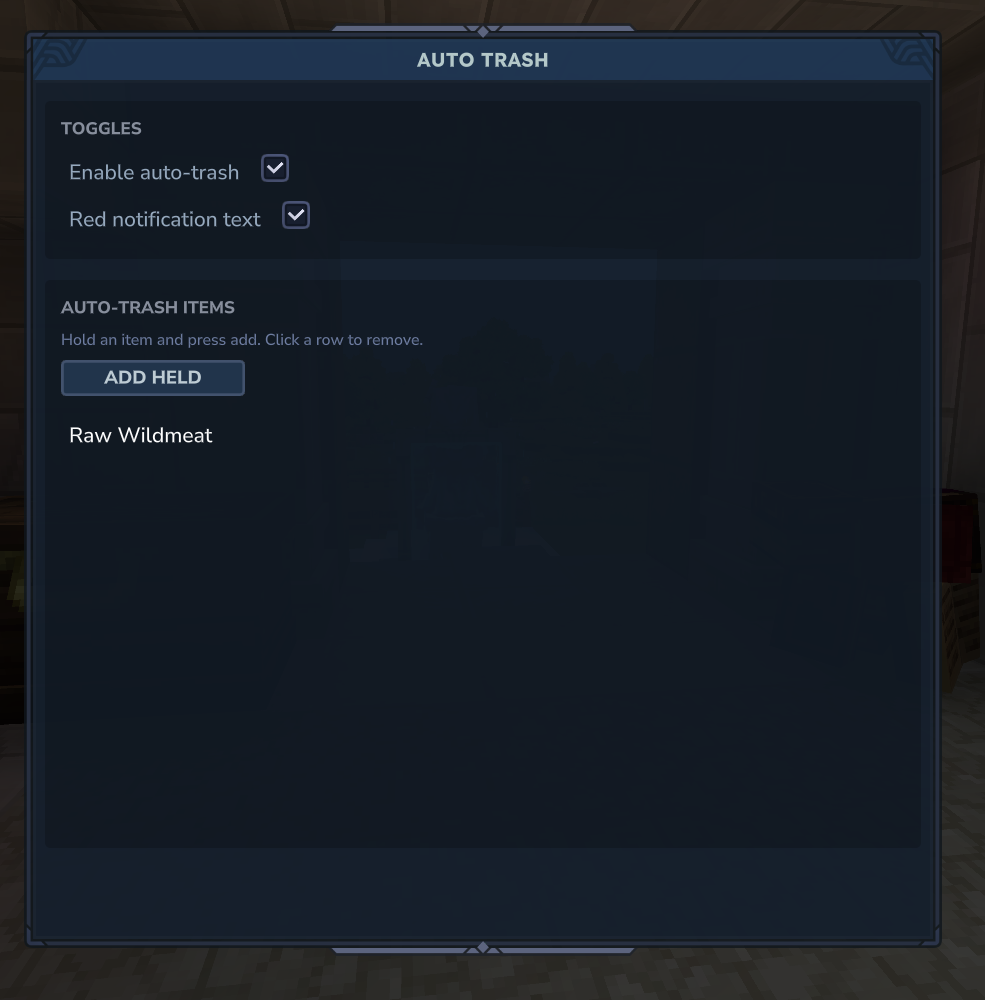
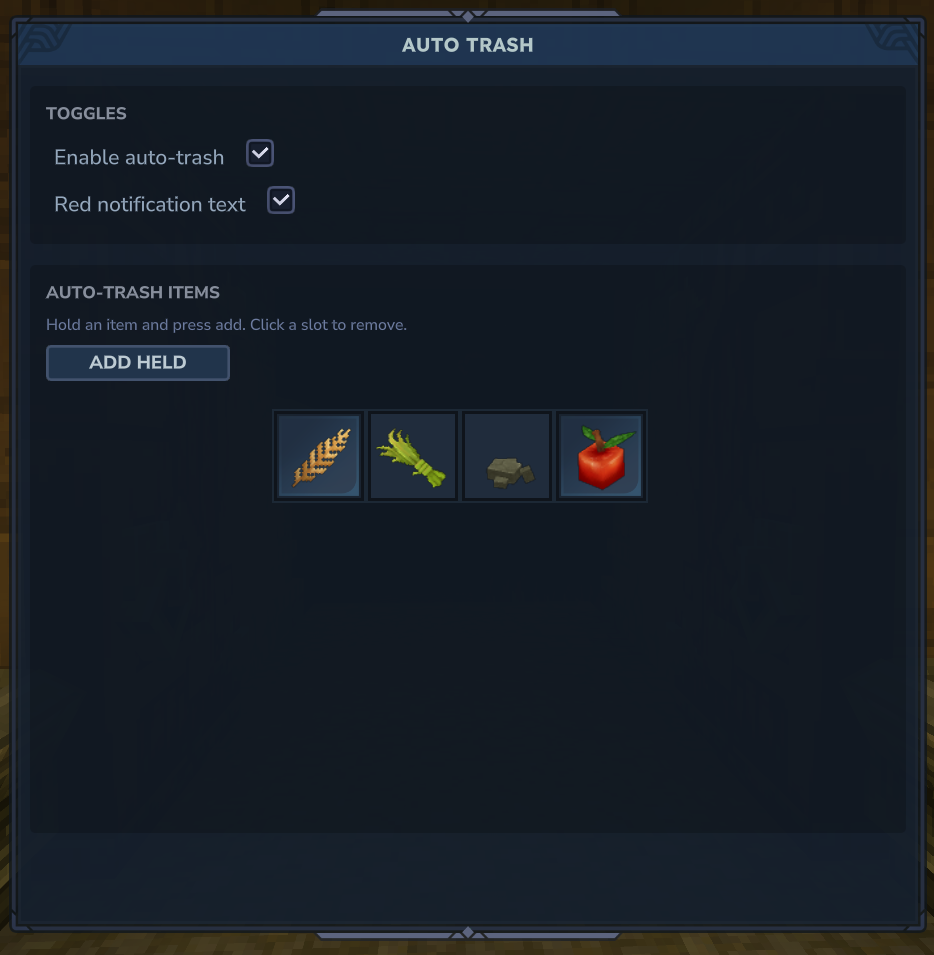
docs(changelog): update changelog for version 1.0.1

Changed region(s): [[0.0, 0.0, 1.0, 1.0], [0.2794, 0.4251, 0.7141, 0.5466]]

diff --git a/docs/CHANGELOG.md b/docs/CHANGELOG.md
@@ -1,5 +1,10 @@
 # Changelog
 
+## 1.0.1 - 2026-01-18
+- Expand the AutoTrash configuration UI with item slot rows.
+- Improve the config page layout and structure for easier use.
+- Refresh public plugin documentation and screenshots.
+
 ## 1.0.0 - 2026-01-17
 - Initial release of AutoTrash.
 - Per-player trash lists with opt-in enable/disable.
